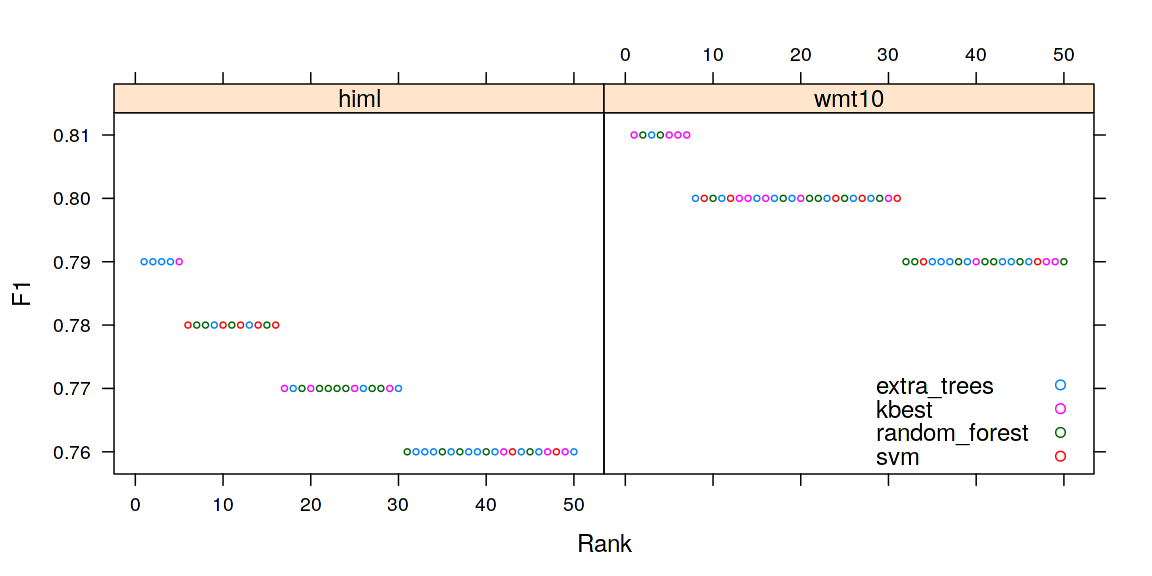
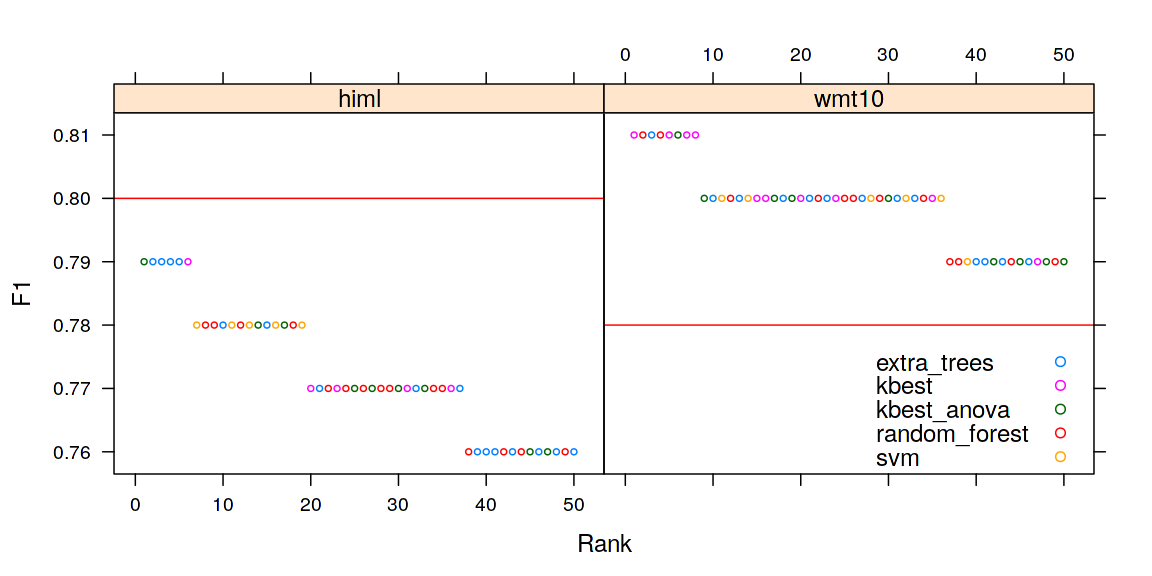
thesis: chap training - added new plots

diff --git a/mlfix-thesis/chap-model_tuning.tex b/mlfix-thesis/chap-model_tuning.tex
@@ -76,6 +76,8 @@ the task of identifying morphologically incorrect words in the text is more diff
 than the task of assigning the new morphological categories. We have faced several issues
 during the training which we will describe in more detail in the following subsections.
 
+
+
 \subsection{Unbalanced data problem}
 
 In this task, we face the problem of the binary classification, where we decided
@@ -116,32 +118,14 @@ Therefore, to balance our data, we have decided to use only the training
 instances from the sentences where at least one word was marked as incorrect. This way, we were
 able to increase the portion of the minority class up to 10\%.
 
-This obviously creates another task and that is detection of the \equo{incorrect} sentences.
+This less unbalanced dataset, we have created this way can be used in two ways: we can simply treat
+it like a downsampled data and use the trained models \equo{globally} (on every MT sentence),
+or we can rather add another component that will be used to identify these \equo{incorrect} sentences
+and than apply our error detection model.
 
-%\todo{kam s popisem metrik?}
+%This obviously creates another task and that is detection of the \equo{incorrect} sentences.
 
-%For this reason
-%we decided to use precision and recall based metrics during the model tuning with
-%our main focus turned to maximising the model precision rather than the recall,
-%because we think it is more preferable to miss some of the incorrect instances than falsely mark
-%instances which are actually correct.
-
-%For the purposes of evaluation we compute \pojem{precision} by a widely used formula:
-%$precision = TP / (TP + FP)$
-%where TP stands for \pojem{true positives}, in our case instances which were
-%assigned same value as the \pojem{true prediction} and different value than the \pojem{baseline},
-%and FP stads for \pojem{false positives}, the instances which were assigned value
-%different from both \pojem{true prediction} and the \pojem{baseline}.
-
-%Similarly, we define \pojem{recall} with a following formula:
-%$recall = TP / (TP + FN)$
-%where FN stands for \pojem{false negatives}, the instances which were assigned value
-%different from the \pojem{true prediction} and equal to the \pojem{baseline}.
-%This specific definition of TP, FP and FN is similar to the standard interpretation
-%of these terms due to the choice of our baseline. However, it will be important
-%during evaluation of the second classification task, the prediction of new morphological
-%categories.
-
+%%% TOTO UZ JE ZMINENE NA ZACATKU %%%
 %Our training process can be separated into two stages: in the first stage, we
 %focused on choosing a suitable machine learning method, we chose the most promising
 %one and in the second stage we tried to further increasing the performance of model
@@ -153,45 +137,114 @@ This obviously creates another task and that is detection of the \equo{incorrect
 There are many machine learning methods that support binary classification, so we
 decided to only compare a limited subset of the available methods that are implemented
 in the Scikit-Learn framework. For each classifier we tried several hyperparameter
-settings to observe the changes in the classifier behaviour. However, we have maded only
+settings to observe the changes in the classifier behaviour. However, we have made only
 a rough examination of the hyperparameter configuration due to the number of observed
 methods. In this stage, the goal was not to train the best possible classifier but
 eliminate those, that are not suitable for the task.
 
-We tried to measure the performance of the classifiers on several datasets. We used
-the Autodesk dataset, WMT10 data, dataset extracted from the lingea logfiles and
-WMT16 newstest dataset translated, one with the Chimera system and
-one translated with the experimental neural network machine translation system (NMT)
-provided by the University of Edinburgh\todo{no ref, nezminovat?}. For each dataset a counterpart
-created by substitution of the reference sentences by the Depfix output was also created
+We have tried to measure the performance of the classifiers on several datasets. We have used
+the WMT10 data, dataset extracted from the lingea logfiles (HimL) and
+WMT16 newstest dataset translated by the Chimera system.
+For each datasets, only instances from the \equo{incorrect} (sentences contaning at least one error)
+sentences were used.
+%one translated with the experimental neural network machine translation system (NMT)
+%provided by the University of Edinburgh\todo{no ref, nezminovat?}.
+Additionally, a counterpart was
+created by substitution of the reference sentences with the Depfix output
 to additionally measure the performance on the \equo{syntetic} data.
+The summary of the size of the used training data is in~\Tref{wf-training-sum}
+
+\begin{table*}[t]
+\centering
+\small
+
+\begin{tabular}{lcc}
+Dataset  &  \hash{} Instances  &  \hash{} Instances (filt.)  \\
+\hline
+WMT10  &  23,470  &  6,033  \\
+HimL  & 7,234  &  2,469  \\
+WMT16-chimera  &  26,942  &  7,047  \\
+WMT10-Depfix  &  40,678  &  4,101  \\
+HimL-Depfix  &  10,491  &  1,114  \\
+WMT16-chimera-Depfix  42,021  &  1,897  \\
+\end{tabular}
+\caption{
+    Summary of the size of the training data extracted from each dataset. We present
+size before and after (filt.) removing the instances extracted from the \equo{correct} sentences.
+}
+\label{wf-training-sum}
+\end{table*}
+
 
 For the purposes of the coarse evaluation we used each dataset separately for both training
 and testing of the classifers, by performing one-against-the-rest 10-fold jackknife sampling.
-Therefore the performance measured in this stage should be considered only as an in-domain
+Therefore the results presented in this stage should be considered only as an in-domain
 performance for a specific MT system.
 
 We have compared the following methods\todo{reference k metodam?}: logistic regression, ridge regression classifier,
-random forests, extremely randomized trees and support vector machines classifier.
-In the\todo{ref}, we can see the comparison of the performance of various classifiers based
-on the F1-measure metric. %okec
+random forests, extremely randomized trees and support vector machines (SVM) classifier.
+In the~\Fref{wf-draft}, we can see the comparison of the performance of various classifiers based
+on the F1-measure metric. We can see, that for the task of error identification, the support vector
+machines with linear kernel might be the most suitable overperforming other methods in most of our
+datasets. The \equo{baseline} peformance is not spectacullar, with score of less 0.3 for the normal data
+and a slightly better score (\tilda{}0.5) for the Depfix data. Therefore we have decided to explore
+further only SVM during the following stages of model training.
 
-% todo: src, nosrc
-% init features: 1364
-% init features: 682
-% napsat do feat filtering
-% best + avg
-
-
-% The summary of precision-recall performance of each trained classifier is shown
-%in table\todo{ref}.
-%TODO okec
-
+% with source
+\begin{figure}
+\centering
+  \includegraphics[scale=0.7]{wf-class}
+  \caption{
+    Overview of the classifier performance.
+We have tried several variations of the hyperparameters
+for each classifier. The classifiers are ordered from the best to the worst. Only top 50 classifiers
+are shown for each dataset.
+}
+  \label{wf-draft}
+\end{figure}
 
 \subsection{Feature filtering}
 
-%TODO: feature representation - vectorized dicts, binary features
+During the model comparison, we have compared performance on two initial feature sets:
+one did not contain any information about the source sentence (\tilda{}680 initial features)
+and one with the source sentence features (\tilda{}1360 initial features). Before training
+the features with zero variance were removed, however, no other feature selection has been
+performed. We have noticed that the additional information provided by the source sentence features
+significatnly improves performance of the majority of the ML methods. Therefore, we have decided
+to use this feature set for the feature selection method comparison.
 
+We have picked SVM as ML of our choice. We have picked several methods for feature
+selection and compared their influence on the classifier performance. During the comparison
+we used a SVM model with fixed hyperparameters. We compared the following methods for
+feature selection: KBest selection (with chi-squared scoring function), selection of the percentile
+of the features (based on the ANOVA F-test),
+selection based on lasso regularization and selection through models with feature importance
+scoring models (svm, random forest). As far as importance scoring goes, we compared different
+model configurations and during features selection, only features with importance higher
+than the mean of the feature importance distribution were selected.
+
+The results of the feature selection method comparison are shown in~\Fref{wf-sel}. We can see
+that most of the time the feature selection performed by either ANOVA percentile selector or
+SVM slightly improved the model performance. We have therefore decided to investigate this methods
+further.
+
+\begin{figure}
+\centering
+  \includegraphics[scale=0.7]{wf-sel}
+  \caption{
+    Overview of the classifier performance.
+We have tried several variations of the hyperparameters
+for each classifier. The horizontal line marks the best performance without
+a feature selection method. The classifiers are ordered from the best to the worst. Only top 50 classifiers
+are shown for each dataset.
+}
+  \label{wf-sel}
+\end{figure}
+
+% results + okec
+
+%TODO: feature representation - vectorized dicts, binary features???
+% chceme to zminovat?
 
 \section{Prediction of new categories}
 
@@ -224,7 +277,7 @@ of course less obvious examples and some categories, while being relevant for on
 can be pointless in another.
 
 For this reason we made a frequency analysis of the changes encountered
-in our data, shown in the figure\Fref{iset-barplot}. We can see that most of the time, only the grammatical
+in our data, shown in the~\Fref{iset-barplot}. We can see that most of the time, only the grammatical
 case was modified (more than 50\% of the instances for the Depfix-based datasets and more than 40\% of the instances for
 the normal datasets). Other changes were a lot less frequent (less than 10\% of the modified instances), however,
 we decided that it still might be worthwhile to try at least predicting grammatical number and gender.
@@ -308,8 +361,8 @@ We have compared several methods of feature selection: KBest selection
 (with chi-squared scoring function), selection based on lasso regularization and selection through
 models (svm, random forest). Again, we have done a rough comparison of these methods, by trying out
 several parameter configurations. We tested them on a model with a fixed parameters. The results
-are in~\Fref{cat-sel}. We can see that with the HimL dataset, the feature selection did not have
-any positive influence on the resulting model. On the other hand, we decided to use the KBest
+are in~\Fref{cats-sel}. We can see that with the HimL dataset, the feature selection did not have
+any positive influence on the resulting model. On the other hand, we have decided to use the KBest
 feature filtering for the WMT10 dataset model training.
 
 \begin{figure}
@@ -317,10 +370,10 @@ feature filtering for the WMT10 dataset model training.
   \includegraphics[scale=0.7]{cat-sel}
   \caption{
     Overview of the random forest performance when combined with various feature selection methods.
-The classifiers are ordered from the best to the worst. Only top 50 classifiers
-are shown for each dataset.
+The methods are ordered from the best to the worst. The horizontal line marks the best performance without
+a feature selection method. Only top 50 classifiers are shown for each dataset.
 }
-  \label{cat-sel}
+  \label{cats-sel}
 \end{figure}
 
 \subsection{Multitask models}

diff --git a/mlfix-thesis/thesis.tex b/mlfix-thesis/thesis.tex
@@ -153,6 +153,8 @@ language pair.
 \include{chap-data}
 \include{chap-task_description}
 \include{chap-model_tuning}
+\include{chap-evaluation}
+\include{chap-german}
 
 \include{epilog}
 

diff --git a/mlfix-thesis/chap-german.tex b/mlfix-thesis/chap-german.tex
@@ -1,0 +1,2 @@
+\chapter{English-German modification}
+\label{chap:german}

diff --git a/mlfix-thesis/chap-evaluation.tex b/mlfix-thesis/chap-evaluation.tex
@@ -1,0 +1,2 @@
+\chapter{System evaluation}
+\label{chap:eval}
